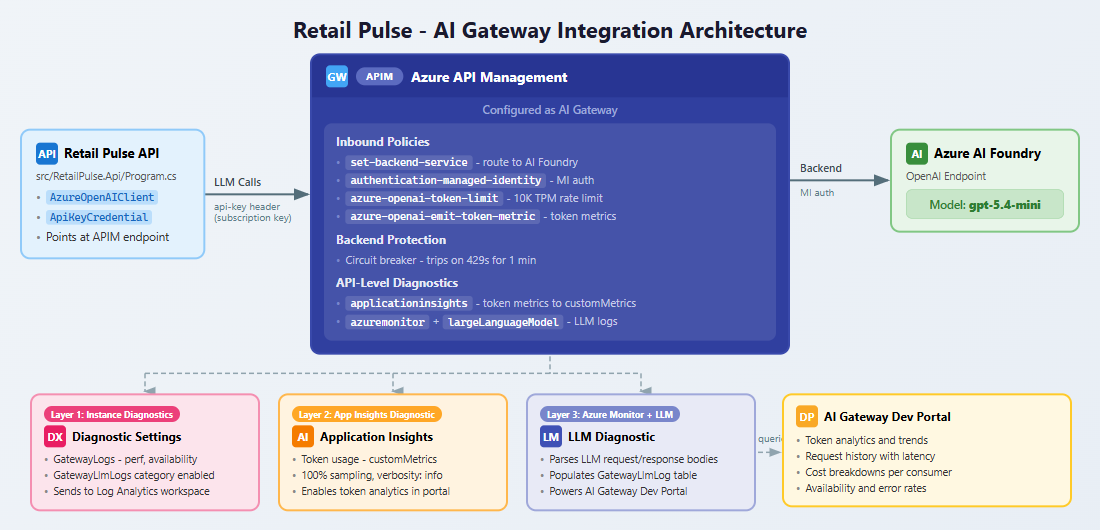
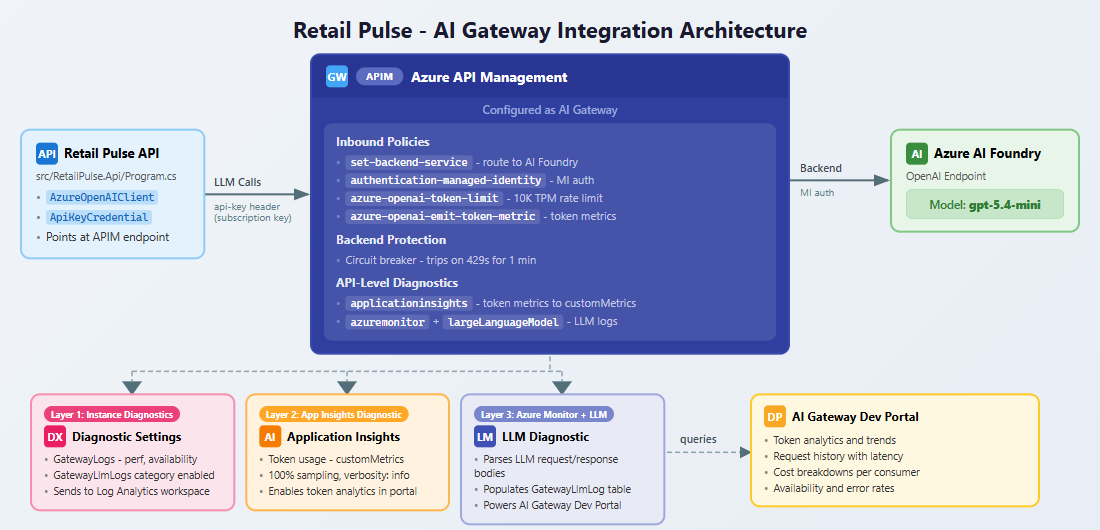
fix: restructure bottom row - larger arrowheads, visible queries label
- Narrowed telemetry boxes (230→205px) and shifted left to create 85px gap
- Replaced tiny SVG marker arrowheads with large explicit triangles (20px wide)
- 'queries' label now fully visible with clear arrow to Dev Portal
- Thickened dashed telemetry lines for visibility at scaled-down sizes

Changed region(s): [[0.0927, 0.6943, 0.8655, 0.9962], [0.9273, 0.9358, 0.9891, 0.966], [0.9273, 0.7245, 0.9891, 0.7547]]

diff --git a/docs/diagram-ai-gateway-arch.html b/docs/diagram-ai-gateway-arch.html
@@ -90,7 +90,7 @@
 
   /* TELEMETRY BOXES */
   .tbox {
-    position: absolute; width: 230px; border-radius: 10px; padding: 10px 12px; font-size: 12px;
+    position: absolute; width: 205px; border-radius: 10px; padding: 10px 12px; font-size: 12px;
   }
   .tbox .box-title { font-size: 12px; }
   .tbox .badge {
@@ -103,14 +103,14 @@
 
   .t1 { left: 10px; top: 340px; background: #fce4ec; border: 2px solid #f48fb1; }
   .t1 .badge { background: #ec407a; } .t1 .icon { background: #e91e63; }
-  .t2 { left: 258px; top: 340px; background: #fff3e0; border: 2px solid #ffb74d; }
+  .t2 { left: 225px; top: 340px; background: #fff3e0; border: 2px solid #ffb74d; }
   .t2 .badge { background: #ffa726; } .t2 .icon { background: #f57c00; }
-  .t3 { left: 506px; top: 340px; background: #e8eaf6; border: 2px solid #9fa8da; }
+  .t3 { left: 440px; top: 340px; background: #e8eaf6; border: 2px solid #9fa8da; }
   .t3 .badge { background: #7986cb; } .t3 .icon { background: #3f51b5; }
 
   /* DEV PORTAL */
   .devportal {
-    position: absolute; left: 762px; top: 340px; width: 290px;
+    position: absolute; left: 730px; top: 340px; width: 290px;
     background: #fff8e1; border: 2px solid #ffca28; border-radius: 10px; padding: 10px 12px;
   }
   .devportal .icon { background: #f9a825; }
@@ -153,23 +153,23 @@
 
   <!-- Telemetry: tree fan-out from APIM center-bottom to T1/T2/T3 -->
   <!-- Trunk: APIM center bottom down to bus bar -->
-  <line x1="530" y1="303" x2="530" y2="320" class="adash"/>
+  <line x1="530" y1="303" x2="530" y2="318" class="adash" stroke-width="2"/>
   <!-- Bus bar: horizontal line connecting all three drops -->
-  <line x1="125" y1="320" x2="621" y2="320" class="adash"/>
-  <!-- Drop to T1 (line + explicit triangle) -->
-  <line x1="125" y1="320" x2="125" y2="332" class="adash"/>
-  <polygon points="118,332 132,332 125,342" fill="#546e7a"/>
-  <!-- Drop to T2 (line + explicit triangle) -->
-  <line x1="373" y1="320" x2="373" y2="332" class="adash"/>
-  <polygon points="366,332 380,332 373,342" fill="#546e7a"/>
-  <!-- Drop to T3 (line + explicit triangle) -->
-  <line x1="621" y1="320" x2="621" y2="332" class="adash"/>
-  <polygon points="614,332 628,332 621,342" fill="#546e7a"/>
+  <line x1="112" y1="318" x2="542" y2="318" class="adash" stroke-width="2"/>
+  <!-- Drop to T1 (line + large explicit triangle) -->
+  <line x1="112" y1="318" x2="112" y2="328" class="adash" stroke-width="2"/>
+  <polygon points="102,328 122,328 112,342" fill="#546e7a"/>
+  <!-- Drop to T2 (line + large explicit triangle) -->
+  <line x1="327" y1="318" x2="327" y2="328" class="adash" stroke-width="2"/>
+  <polygon points="317,328 337,328 327,342" fill="#546e7a"/>
+  <!-- Drop to T3 (line + large explicit triangle) -->
+  <line x1="542" y1="318" x2="542" y2="328" class="adash" stroke-width="2"/>
+  <polygon points="532,328 552,328 542,342" fill="#546e7a"/>
 
   <!-- T3 -> Dev Portal (queries arrow) -->
-  <line x1="738" y1="399" x2="756" y2="399" class="adash"/>
-  <polygon points="756,394 766,399 756,404" fill="#546e7a"/>
-  <text x="738" y="388" class="albl">queries</text>
+  <line x1="647" y1="399" x2="720" y2="399" class="adash" stroke-width="2"/>
+  <polygon points="720,393 732,399 720,405" fill="#546e7a"/>
+  <text x="660" y="390" class="albl">queries</text>
 </svg>
 
 <!-- CLIENT -->
